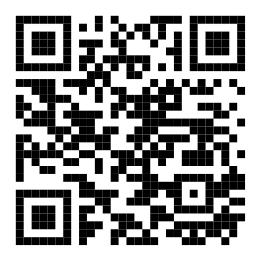
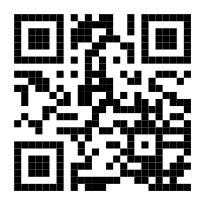
更新文档

diff --git a/docs/components.md b/docs/components.md
@@ -61,6 +61,8 @@
 * [15. 搜索栏](#15-搜索栏)
     * [SearchBar](#searchbar)
 
+* [16. 二维码](#16-二维码)
+    * [QrCode](#qrcode)
 <!-- toc stop -->
 
 
@@ -1346,3 +1348,78 @@ value: {
 * events
 
     * __`weui-search-bar-submit`__: 搜索栏提交事件（一般为用户在软键盘中点击了“搜索”按钮）
+    
+### 15. 搜索栏
+
+#### SearchBar
+
+* props
+
+```javascript
+/**
+ * 标签
+ */
+placeholder: {
+  type: String,
+  required: false
+},
+
+/**
+ * 取消按钮文本，若不设置则无取消按钮
+ */
+cancelText: {
+  type: String,
+  required: false
+},
+
+/**
+ * 双向绑定的搜索框输入内容
+ */
+value: {
+  type: String,
+  required: true,
+  twoWay: true
+}
+```
+
+* events
+
+    * __`weui-search-bar-submit`__: 搜索栏提交事件（一般为用户在软键盘中点击了“搜索”按钮）
+    
+### 16. 二维码
+
+#### QrCode
+
+* props
+
+```javascript
+/**
+ * 大小
+ */
+size: {
+  type: Number,
+  default: 100
+},
+/**
+* 背景色
+*/
+bgColor: {
+  type: String,
+  default: '#FFFFFF'
+},
+/**
+* 前景色即二维码颜色
+*/
+fgColor: {
+  type: String,
+  default: '#000000'
+},
+
+/**
+ * 二维码文本内容
+ */
+val: {
+  type: String,
+  required: true
+}
+```

diff --git a/README.md b/README.md
@@ -34,7 +34,8 @@ npm install v-weui --save
 
 ```javascript
 // 引入css样式
-import 'v-weui/less/weui.less';
+import 'v-weui/components/less/weui.less';
+
 // 引用所有组件
 import VWeui from 'v-weui';
 
@@ -77,9 +78,9 @@ new Vue({
 ## 查看示例
 
 ```
-git clone https://github.com/liufulin90/v-weui
+git clone https://github.com/liufulin90/v-weui.git
 cd v-weui && npm install
-npm start
+npm run dev
 
 open http://localhost:8080 in browser
 ```
@@ -90,7 +91,7 @@ open http://localhost:8080 in browser
 
 ## 反馈
 
-有任何意见和建议请提交issue或PR，谢谢。
+有任何意见和建议请提交[issue](https://github.com/liufulin90/v-weui/issues)或[PR](https://github.com/liufulin90/v-weui/pulls)，谢谢。
 
 [npm-badge]: https://img.shields.io/npm/v/v-weui.svg?style=flat-square
 [npm]: https://www.npmjs.com/package/v-weui

diff --git a/docs/CHANGELOG.md b/docs/CHANGELOG.md
@@ -1,4 +1,6 @@
 # 变更日志
 
+## 0.1.6
+新增二维码，修复部分vue中的部分警告
 ## 0.1.0
 初次发布
